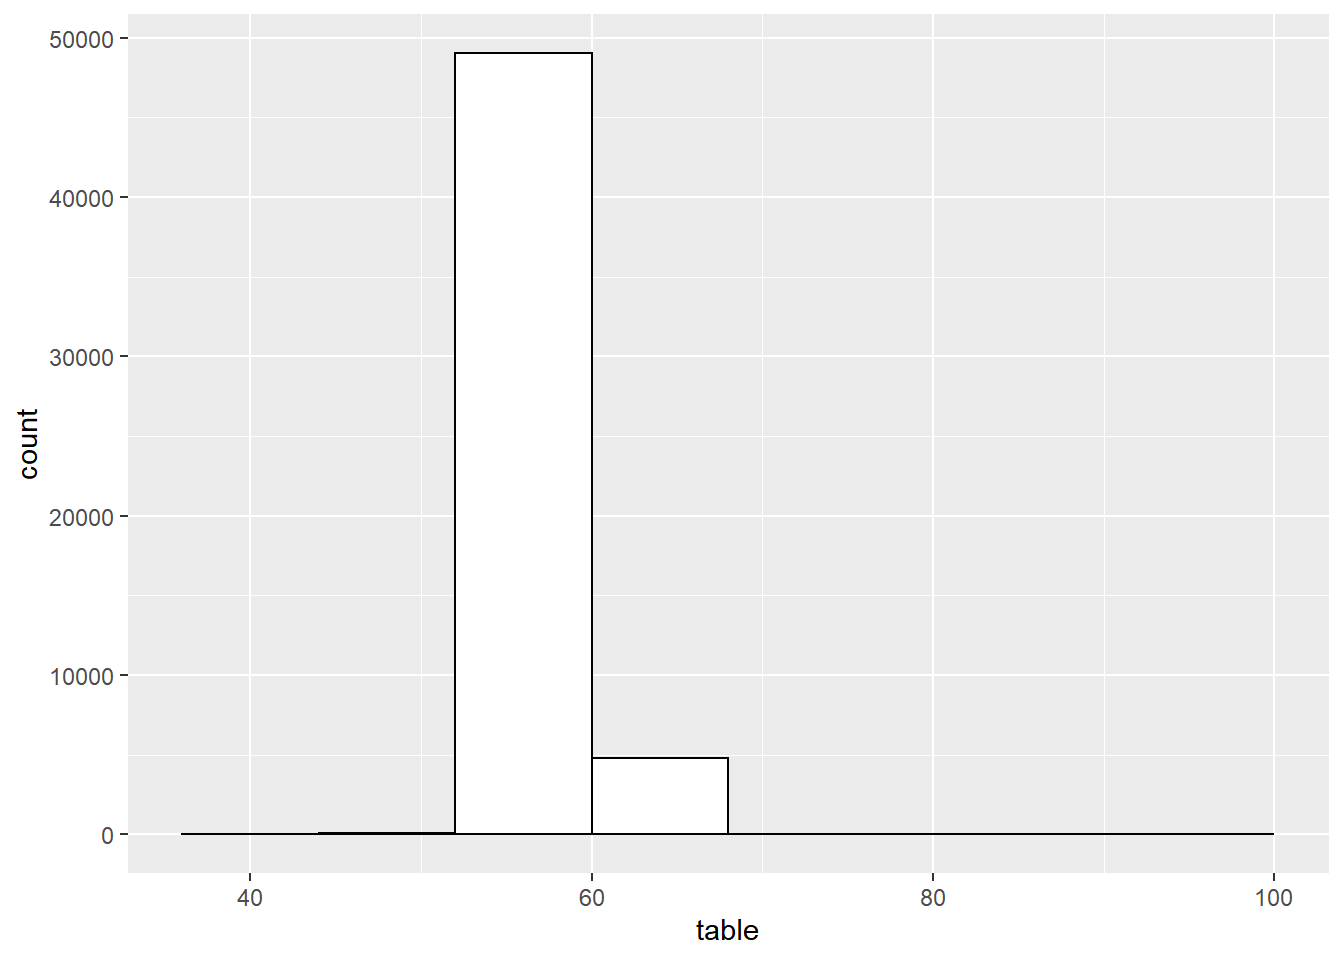
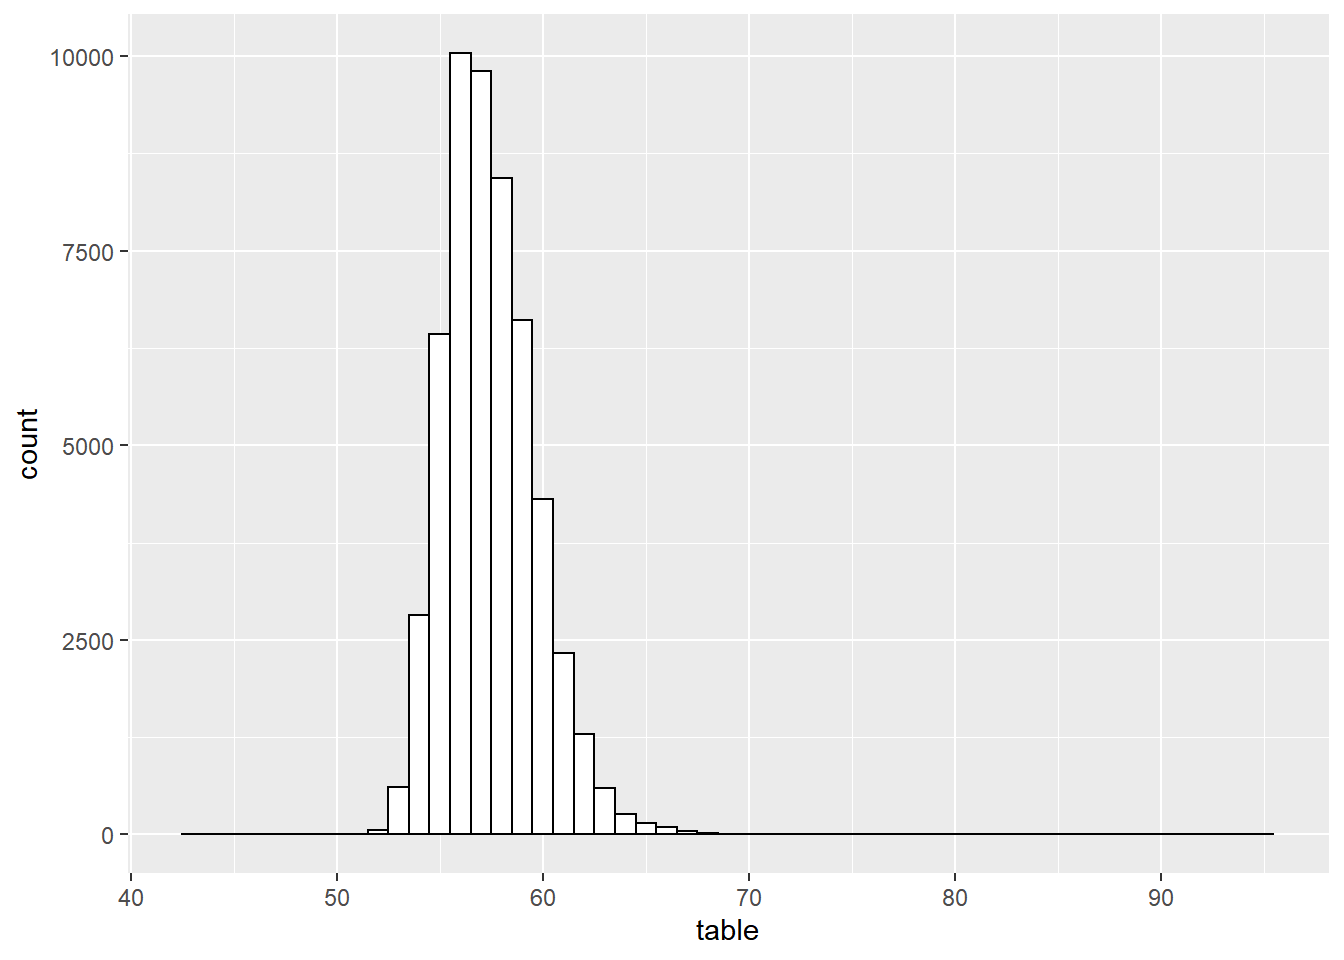
add ggplot2 contents

diff --git a/content/post/2021-03-27-r-ggplot2/index.html b/content/post/2021-03-27-r-ggplot2/index.html
@@ -49,31 +49,26 @@ head(diamonds,5) </code></pre>
 ## 4 0.290 Premium I     VS2      62.4    58   334  4.2   4.23  2.63
 ## 5 0.31  Good    J     SI2      63.3    58   335  4.34  4.35  2.75</code></pre>
 <p>ggplot은 앞선 포스팅에서 다루었던 dplyr의 chain operator와 결합하여 사용이 가능하다.</p>
-<div id="geom_point" class="section level3">
-<h3>geom_point()</h3>
-<ol style="list-style-type: decimal">
-<li>어떤 데이터프레임을 사용할 지, 제일 처음 선언을 해주자.<br />
-</li>
-<li>그 후, ggplot x 축에 Sepal.Length를, y 축에 Sepal.Width를 매핑한다.<br />
-</li>
-<li>어떤 기능(geom_point)으로 그래프를 표현할 지 결정한다.</li>
-</ol>
+</div>
+<div id="geom_point" class="section level2">
+<h2>geom_point()</h2>
+<p>[기본 문법]<br />
+1. 어떤 데이터프레임을 사용할 지, 제일 처음 선언을 해주자.<br />
+2. 그 후, ggplot x 축에 Sepal.Length를, y 축에 Sepal.Width를 매핑한다.<br />
+3. 어떤 기능(geom_point)으로 그래프를 표현할 지 결정한다.</p>
 <p>이때, 데이터 프레임과 ggplot을 연결하는 것은 chain operator(%&gt;%) 인 반면, ggplot(aes()) 와 geom_point() 를 잇는 것은 ‘+’ 임을 명심하여야 한다.</p>
 <pre class="r"><code>diamonds %&gt;% 
   ggplot(aes(x = carat, y = price)) + 
   geom_point()</code></pre>
 <p><img src="{{< blogdown/postref >}}index_files/figure-html/unnamed-chunk-3-1.png" width="672" /></p>
 </div>
-<div id="geom_line" class="section level3">
-<h3>geom_line()</h3>
-<ol style="list-style-type: decimal">
-<li>어떤 데이터프레임을 사용할 지, 제일 처음 선언을 해주자.<br />
-</li>
-<li>그 후, ggplot x 축에 Sepal.Length를, y 축에 Sepal.Width를 매핑한다.<br />
-</li>
-<li>어떤 기능(geom_line)으로 그래프를 표현할 지 결정한다.
--&gt; 헌 그래프에서는 group 이라는 옵션이 필요하다. 선은 동일한 x에 하나의 y 값만을 가져야하는 특징이 있으므로, group = 1 을 넣어주자.</li>
-</ol>
+<div id="geom_line" class="section level2">
+<h2>geom_line()</h2>
+<p>[기본 문법]<br />
+1. 어떤 데이터프레임을 사용할 지, 제일 처음 선언을 해주자.<br />
+2. 그 후, ggplot x 축에 Sepal.Length를, y 축에 Sepal.Width를 매핑한다.<br />
+3. 어떤 기능(geom_line)으로 그래프를 표현할 지 결정한다.
+-&gt; 헌 그래프에서는 group 이라는 옵션이 필요하다. 선은 동일한 x에 하나의 y 값만을 가져야하는 특징이 있으므로, group = 1 을 넣어주자.</p>
 <pre class="r"><code>diamonds %&gt;% 
   group_by(cut) %&gt;% 
   summarise(mean_price = mean(price)) %&gt;%  # cut을 기준으로 price의 평균값을 가지는 mean_price 별로 집계
@@ -82,34 +77,83 @@ head(diamonds,5) </code></pre>
 <pre><code>## `summarise()` ungrouping output (override with `.groups` argument)</code></pre>
 <p><img src="{{< blogdown/postref >}}index_files/figure-html/unnamed-chunk-4-1.png" width="672" /></p>
 </div>
-<div id="geom_bar" class="section level3">
-<h3>geom_bar()</h3>
+<div id="geom_bar" class="section level2">
+<h2>geom_bar()</h2>
+<p>[기본 문법]<br />
+1. 어떤 데이터프레임을 사용할 지, 제일 처음 선언을 해주자.<br />
+2. cut을 기준으로 price의 평균가격을 grouping 해보자.
+3. 그 후, cut에 따른 평균 price를 bar plot으로 구현해보자.<br />
+4. stat = “identitiy”로 y축의 높이를 데이터의 값으로 하는 bar plot의 형태로 지정해보자.</p>
 <pre class="r"><code>diamonds %&gt;% 
   group_by(cut) %&gt;% 
   summarise(mean_price = mean(price)) %&gt;% 
   ggplot(aes(x=cut, y=mean_price)) + 
-  geom_bar(stat = &quot;identity&quot;) + 
-  coord_cartesian(expand = TRUE)</code></pre>
+  geom_bar(stat = &quot;identity&quot;) </code></pre>
 <pre><code>## `summarise()` ungrouping output (override with `.groups` argument)</code></pre>
 <p><img src="{{< blogdown/postref >}}index_files/figure-html/unnamed-chunk-5-1.png" width="672" /></p>
 </div>
-<div id="geom_boxplot" class="section level3">
-<h3>geom_boxplot()</h3>
+<div id="geom_histogram" class="section level2">
+<h2>geom_histogram()</h2>
+<p>[기본 문법]<br />
+1. 어떤 데이터프레임을 사용할 지, 제일 처음 선언을 해주자.<br />
+2. 어떤 컬럼에 대해, histogram을 그리길 원하는 지 지정해주자.
+3. binwidth = 1 로 값의 구간이 1이 되는 히스토그램을 그려보자.
+4. fill = “white”로 막대의 색이 흰색이 되도록, color = “black”으로 막대의 테두리가 검정이 되도록 옵션을 지정한다.</p>
 <pre class="r"><code>diamonds %&gt;% 
   ggplot(aes(x=table)) + 
-  geom_histogram(binwidth = 8, fill = &quot;white&quot;, color = &quot;black&quot;)</code></pre>
+  geom_histogram(binwidth = 1, fill = &quot;white&quot;, color = &quot;black&quot;)</code></pre>
 <p><img src="{{< blogdown/postref >}}index_files/figure-html/unnamed-chunk-6-1.png" width="672" /></p>
+<blockquote>
+<p>binwidth = 5</p>
+</blockquote>
+<pre class="r"><code>diamonds %&gt;% 
+  ggplot(aes(x=table)) + 
+  geom_histogram(binwidth = 5, fill = &quot;white&quot;, color = &quot;black&quot;)</code></pre>
+<p><img src="{{< blogdown/postref >}}index_files/figure-html/unnamed-chunk-7-1.png" width="672" /></p>
+<blockquote>
+<p>fill = “green” , color = “red”</p>
+</blockquote>
+<pre class="r"><code>diamonds %&gt;% 
+  ggplot(aes(x=table)) + 
+  geom_histogram(binwidth = 5, fill = &quot;green&quot;, color = &quot;red&quot;)</code></pre>
+<p><img src="{{< blogdown/postref >}}index_files/figure-html/unnamed-chunk-8-1.png" width="672" /></p>
 </div>
-<div id="geom_area" class="section level3">
-<h3>geom_area()</h3>
+<div id="geom_boxplot" class="section level2">
+<h2>geom_boxplot()</h2>
+<p>[기본 문법]<br />
+1. 어떤 데이터프레임을 사용할 지, 제일 처음 선언을 해주자.<br />
+2. 어떤 컬럼(x = )을 기준으로 boxplot 을 그리고자 하는 컬럼(y = ) 을 지정하자.
+3. + geom_boxplot() 을 붙여준다.</p>
+<pre class="r"><code>diamonds %&gt;% 
+  ggplot(aes(x= color, y = carat)) + 
+  geom_boxplot()</code></pre>
+<p><img src="{{< blogdown/postref >}}index_files/figure-html/unnamed-chunk-9-1.png" width="672" /></p>
+<blockquote>
+<p>[옵션] fill = “slategrey”, color = “darkgray”, width = 0.3</p>
+</blockquote>
+<pre class="r"><code>diamonds %&gt;% 
+  ggplot(aes(x= color, y = carat)) + 
+  geom_boxplot(fill = &quot;slategrey&quot;, color = &quot;darkgray&quot;, width = 0.3)</code></pre>
+<p><img src="{{< blogdown/postref >}}index_files/figure-html/unnamed-chunk-10-1.png" width="672" /></p>
+<blockquote>
+<p>[옵션] 평균 추가하기<br />
+stat_summary(fun=“mean”, geom=“point”, shape=19, size=2, fill=“black”)</p>
+</blockquote>
+<pre class="r"><code>diamonds %&gt;% 
+  ggplot(aes(x= color, y = carat)) + 
+  geom_boxplot(fill = &quot;slategrey&quot;, color = &quot;darkgray&quot;, width = 0.3) +
+  stat_summary(fun=&quot;mean&quot;, geom=&quot;point&quot;, shape=19, size=2, fill=&quot;black&quot;) </code></pre>
+<p><img src="{{< blogdown/postref >}}index_files/figure-html/unnamed-chunk-11-1.png" width="672" /></p>
+</div>
+<div id="geom_area" class="section level2">
+<h2>geom_area()</h2>
 <pre class="r"><code># sample Data
 sunspotyear &lt;- data.frame(Year     = as.numeric(time(sunspot.year)),
                           Sunspots = as.numeric(sunspot.year))
 # 음영 영역 그래프 그리기
 ggplot(sunspotyear, aes(x = Year, y = Sunspots)) + geom_area()</code></pre>
-<p><img src="{{< blogdown/postref >}}index_files/figure-html/unnamed-chunk-7-1.png" width="672" /></p>
+<p><img src="{{< blogdown/postref >}}index_files/figure-html/unnamed-chunk-12-1.png" width="672" /></p>
 <div id="참고-사이트-httpsrpubs.comkimwoohyungggplot2" class="section level5">
 <h5>참고 사이트 : <a href="https://rpubs.com/kimwoohyung/ggplot2" class="uri">https://rpubs.com/kimwoohyung/ggplot2</a></h5>
-</div>
 </div>
 </div>
